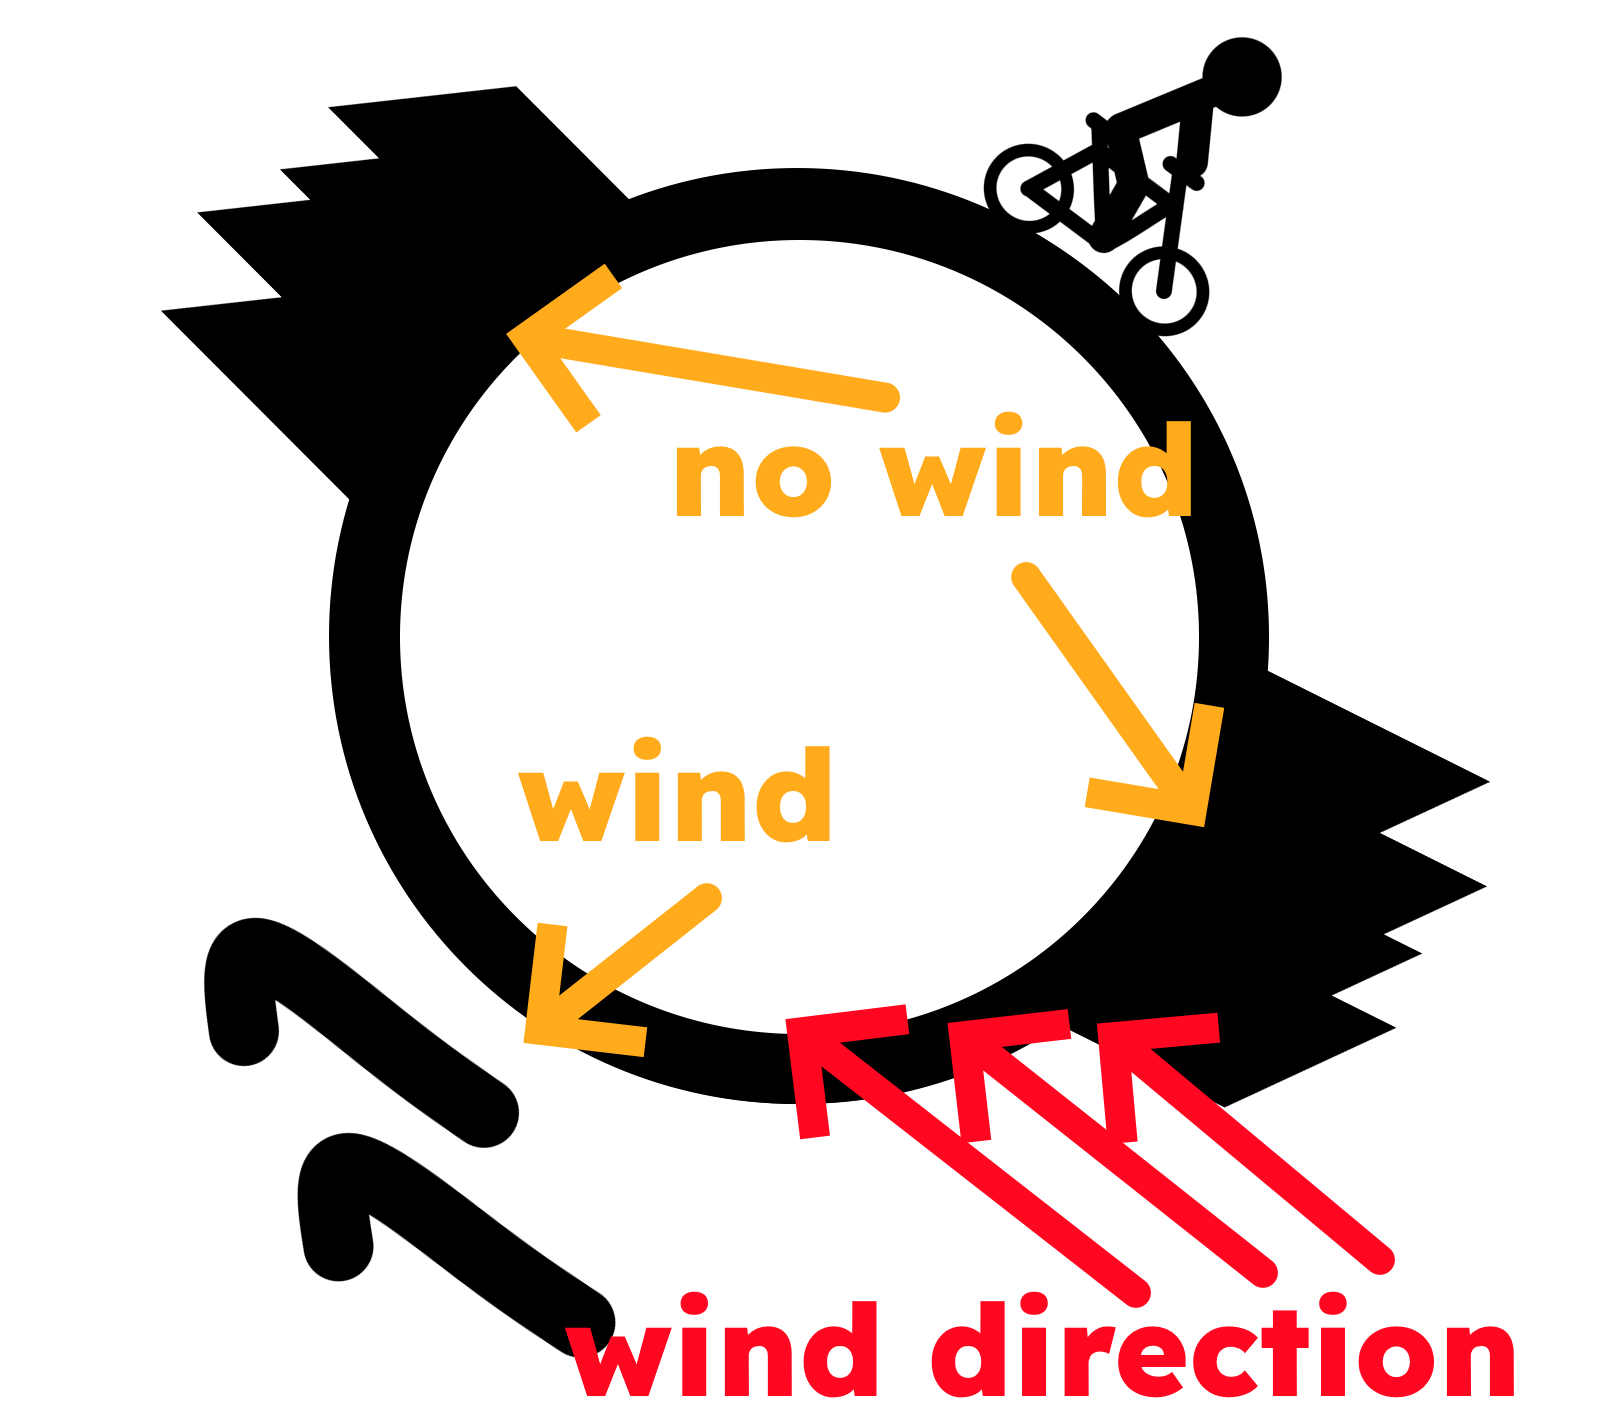
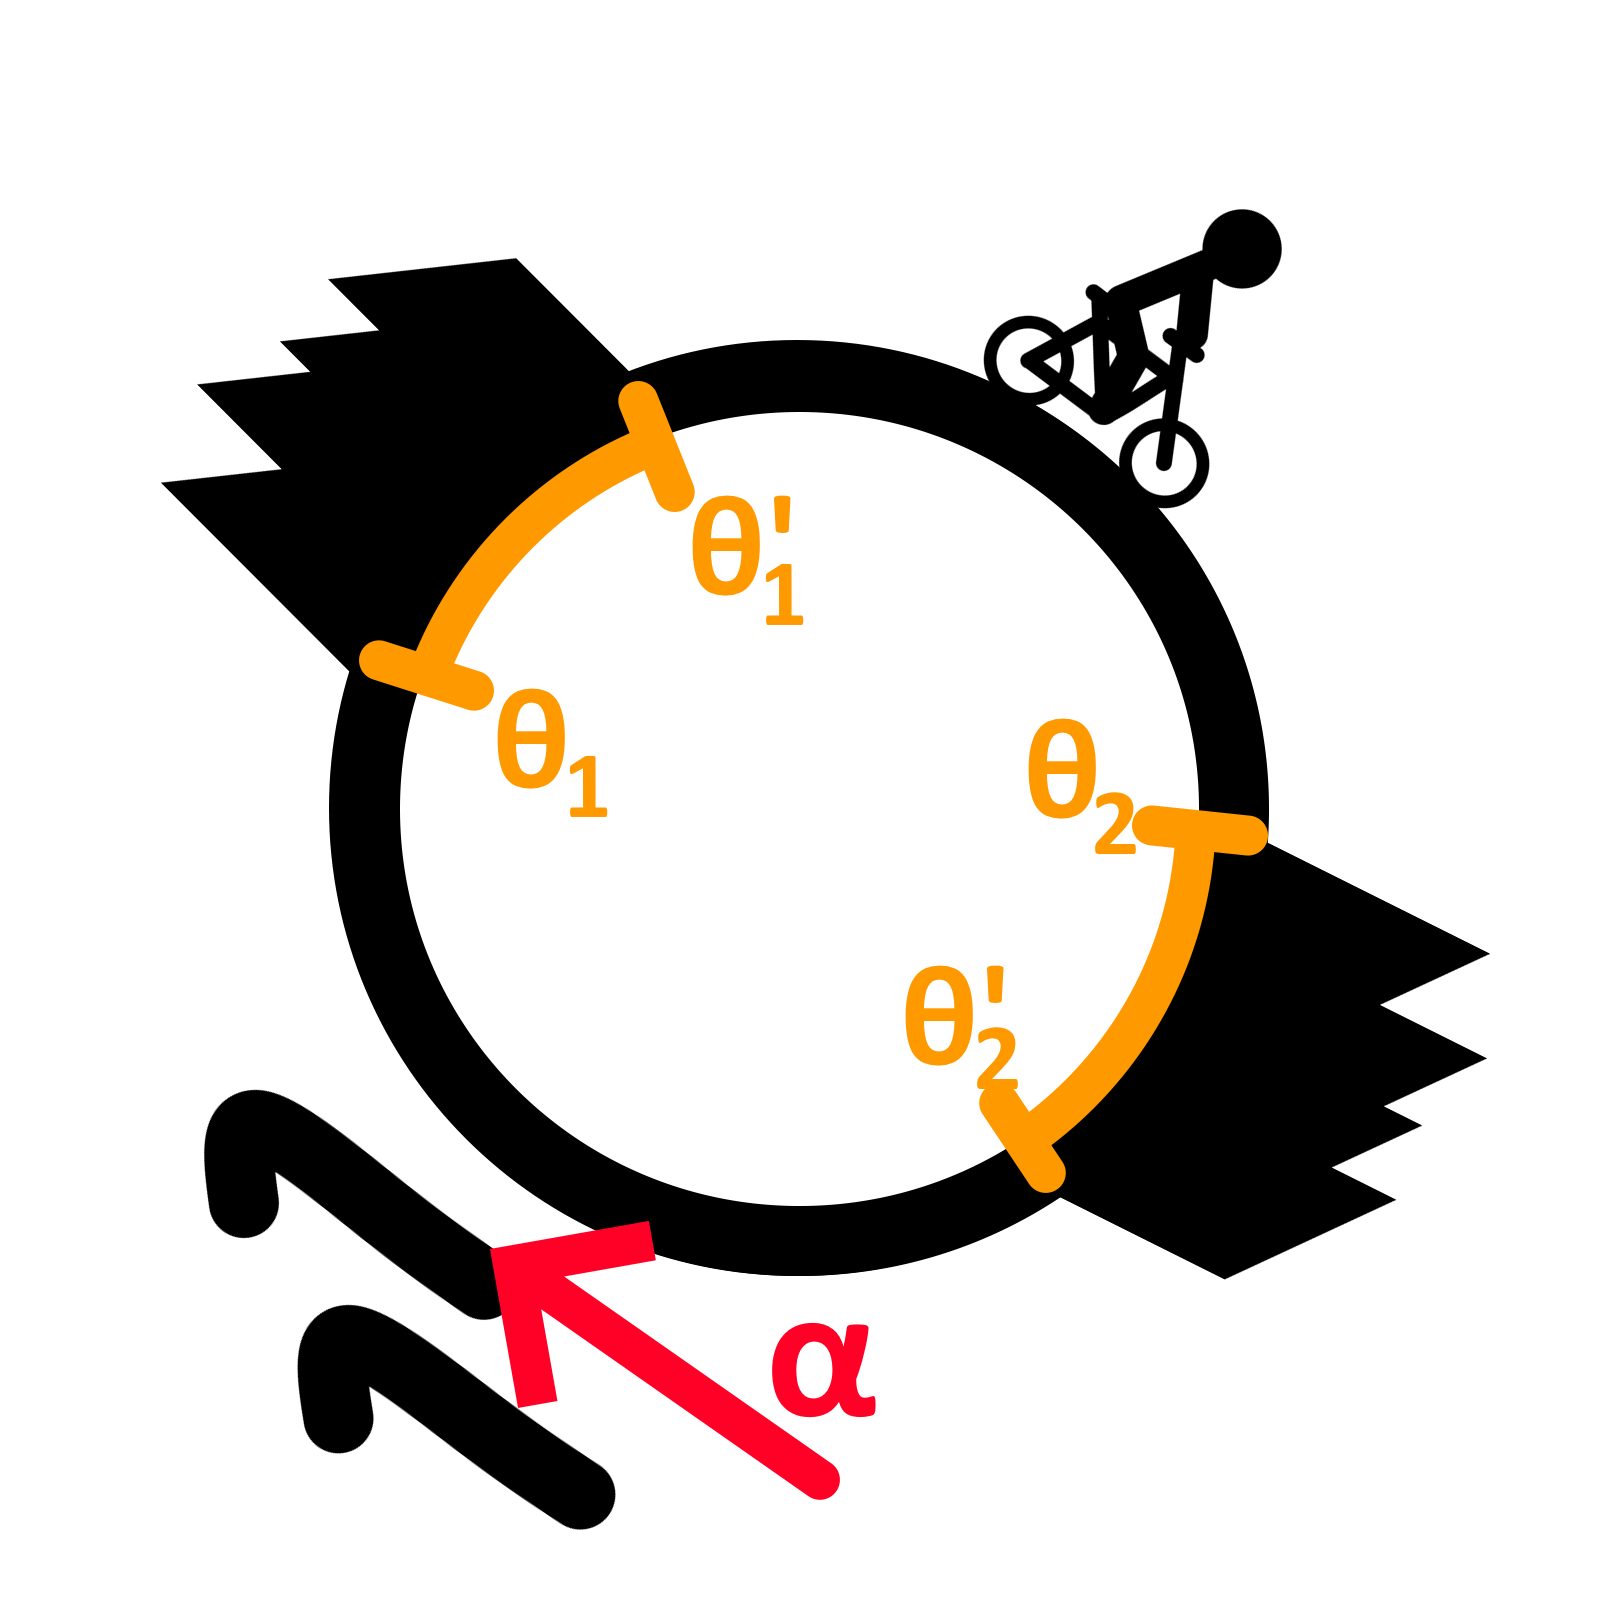
Completed cycling in circles post

Changed region(s): [[0.0938, 0.0308, 0.9688, 0.986], [0.2812, 0.8936, 0.3125, 0.9244]]

diff --git a/collections/_posts/2026-07-28-cycling-in-circles.md b/collections/_posts/2026-07-28-cycling-in-circles.md
@@ -1,7 +1,7 @@
 ---
 layout: post
 title: "Cycling in Circles"
-date: 2026-07-28 18:00:00 +0200
+date: 2026-07-28 21:00:00 +0200
 tags:
   - Puzzle
   - Math
@@ -11,16 +11,75 @@ front_image: /assets/posts/cycling-in-circles/circle_colored.png
 thumbnail: /assets/posts/cycling-in-circles/circle_colored.png
 ---
 
-I love cycling. Recently, on a late afternoon while I was cycling I got the feeling that I had to put in more effort than usual. Since I usually cycle in a big loop, this does not make much sense. For all of the effort you have to put in to cycle agaist the wind, you get rewarded by being able to cycle with a tailwind just as much, right? Well, not exactly. There is one factor that can play quite a big role: Areas where the wind is blocked by buildings. My usual route is quite varied in this aspect, so it can swing quite a bit between a lot of headwind and a lot of tailwind.
+I love cycling. Recently, on a late afternoon while I was cycling I got the feeling that I had to put in more effort than usual. Since I usually cycle in a big loop, this does not make much sense: For all of the effort you have to put in to cycle agaist the wind, you get rewarded by being able to cycle with a tailwind just as much, right? Well, not exactly. There is one factor that can play quite a big role: Areas where the wind is blocked by buildings. My usual route is quite varied in this aspect, so it can swing quite a bit depending on wind direction.
 
-This problem made me wonder: What is the optimal direction in the sense that I would have to put in as little effort as possible? I decided to model this mathematically. As you'll see in this post, the problem is easier to solve than you might think.
+This got me thinking: What is the optimal wind direction, in the sense that I would have to put in as little effort as possible? I decided to model this mathematically. And as you'll see in this post, the problem is easier to solve than you might think.
 
 ## Modeling the Problem
 
+Let's first model our problem as simple as possible. Suppose we're cycling in a circle, where some areas of the circle are covered by buildings. In these areas there won't be any wind. In all other areas there will be wind, which is coming from a constant direction with constant force.
+
+![Illustration of the problem](/assets/posts/cycling-in-circles/circle_annotated.png)
+
+We'll model the wind direction as an angle $\alpha \in [0, 2\pi)$ and the areas without any buildings (so the areas *with* wind) as intervals $[\theta_1, \theta_1'], \dots, [\theta_n, \theta_n']$. It is reasonable to assume the force we're experiencing from the wind at some point on the circle $t$ is equal to $\cos(t + \alpha)$.
+
+This is all we need to formulate our problem. After this I'll outline my solution to this problem. If you'd like to have a tackle at this yourself, stop reading and grab some pen and paper :)
+
+## Solution
+
+To start solving this problem, we first need to determine the energy that is expended when cycling in this circle. Since we're interested in minimizing our effort, we only need to calculate the total *extra* energy expended in the areas where there are no buildings. This is proportional to the following quantity, which we'll call $E_\alpha$:
+
+$$
+  \begin{align}
+    &E_{extra}\ \propto\ E_\alpha \\
+    &=\ \int_0^{2\pi} \cos(t + \alpha) \cdot 1\{t \in [\theta_i, \theta_i]\}\ dt
+  \end{align}
+$$
+
+We integrate over the force that we're experiencing in the direction that we're cycling, at each point along the circle. This is proportional to $\cos(t + \alpha)$ when we're in an open area with wind, and $0$ in areas with buildings. If we assume all of the intervals $[\theta_i, \theta_i']$ are disjoint, we can write this as
+
+$$
+  E_\alpha = \sum_i \int_{\theta_i}^{\theta_i'} \cos(t + \alpha)\ dt
+$$
+
+This is a pretty easy intergral to solve, since we can use the primitive of $\cos(t + \alpha)$, which is $\sin(t + \alpha)$.
+
+$$
+  \begin{align}
+    E_\alpha &= \sum_i \left(\sin(\theta_i' + \alpha) - \sin(\theta_i + \alpha)\right) \\
+    &= \sum_i \left(\sin(\theta_i' + \alpha) + \sin(\theta_i + \alpha + \pi)\right) \\
+    &= \sum_i (\cos(\theta_i' + \alpha - \pi/2) \\
+    & \quad +\ \cos(\theta_i + \alpha + \pi/2))
+  \end{align}
+$$
+
+To make things a bit easier in the next step, we'll denote $\delta_1 = \theta_1 + \pi/2$, $\delta_2 = \theta_1' - \pi/2$, $\delta_3 = \theta_2 + \pi/2$, $\delta_4 = \theta_2' - \pi/2$, $\dots$ This makes the above sum a lot nicer:
+
+$$
+  E_\alpha = \sum_i \sin(\delta_i + \alpha)
+$$
+
 ## A Nice Theorem
 
-"Harmonic Addition Theorem"
+After getting to this part I was a bit stuck: Adding abitrary sine waves does not usually yield a nice expression. However, these sine waves all have the frequency! This means that adding up these sine waves will result in another pure sine wave, again with the same frequency! This is known as the [Harmonic Addition Theorem](https://mathworld.wolfram.com/HarmonicAdditionTheorem.html). It states that the sum of sine waves above can be written as the following pure sine wave:
+
+$$
+  E_\alpha = A \cos(\delta + \alpha)
+$$
+
+where
+
+$$
+  \begin{align}
+    A &= \sqrt{\sum_i \sum_j \cos(\delta_i - \delta_j)} \\
+    \delta &= \tan^{-1} \frac{\sum_i \sin \delta_i}{\sum_i \cos(\delta_i)}
+  \end{align}
+$$
+
+If we know the value of $\delta$, we know the minimum of $E_\alpha$ will be attained at $\alpha = \pi - \delta$. This is the wind angle where we have to expend the least amount of energy.
+
+And there you have it! Calculate $\pi - \delta$ using the procedure above and you'll know the optimal wind angle!
 
 ## Conclusion
 
-![Illustration of the problem](/assets/posts/cycling-in-circles/circle_annotated.png)
+Obviously, modeling the cycling route as a circle is not quite accurate to real life. Let alone assuming there are areas where there is absolutely no wind and others where wind is constant. Even assuming a constant wind direction is not accurate... Depite this, I thought this was quite interesting. And who knows, maybe some day I'll try to optimize my routes using Harmonic Addition Theorem.
